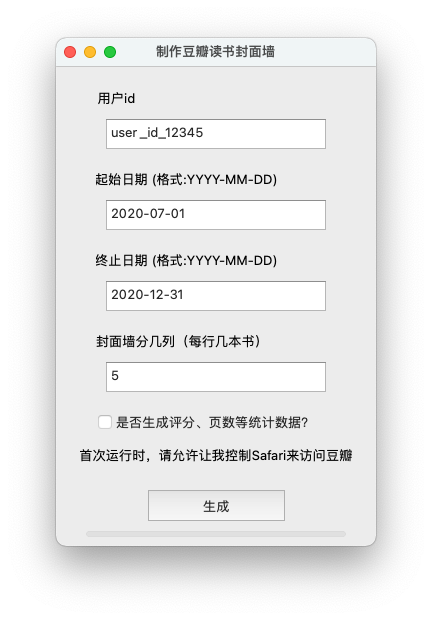
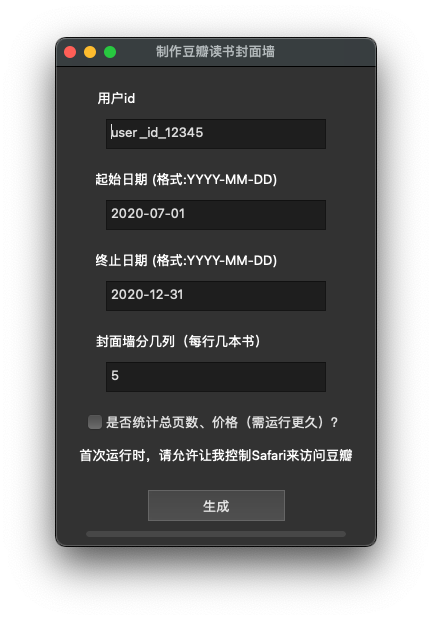
RL: now also use Safari to fecth number of pages and price info; fix a bug in doing stats

diff --git a/DoubanBookCovers.py b/DoubanBookCovers.py
@@ -1,3 +1,4 @@
+import os
 import sys
 import random
 import requests
@@ -10,6 +11,36 @@ from PyQt5 import QtCore, QtWidgets
 from PyQt5.QtCore import pyqtSlot, QEventLoop, QTimer
 from bs4 import BeautifulSoup
 from subprocess import Popen, PIPE
+
+def q_sleep(t_s):
+    loop = QEventLoop()
+    QTimer.singleShot(int(t_s * 1000), loop.quit)
+    loop.exec_()
+
+def get_from_safari(url):
+
+    scpt = '''
+            on run {input_url}
+                tell application "Safari"
+                    tell window 1
+                        set current tab to (make new tab with properties {URL:input_url})
+                        -- make sure the page is loaded
+                        repeat while current tab's source = ""
+                            delay 0.5
+                        end repeat
+                        -- wait a bit to make douban.com less suspicious
+                        set delay_4_close to (random number from 2.5 to 6.0)
+                        delay delay_4_close
+                        set pageSource to the source of the current tab
+                        close current tab
+                    end tell
+                end tell
+                return pageSource
+            end run'''
+    
+    p = Popen(['osascript', '-'] + [url], stdin=PIPE, stdout=PIPE, stderr=PIPE)
+    stdout, stderr = p.communicate(scpt.encode('utf-8'))
+    return p.returncode, stdout, stderr
 
 class BookInfo:
     
@@ -103,30 +134,53 @@ class BookInfo:
         return self.book_ID != other.book_ID
 
     def get_more_info(self):
-
+        
+        """ This method easily triggers anti-crawling policy
         headers={'User-Agent': 'Mozilla/5.0 (Macintosh; Intel Mac OS X 11_0_1) AppleWebKit/537.36 (KHTML, like Gecko) Chrome/87.0.4280.88 Safari/537.36'}
         r = requests.get(self.book_url, headers=headers)
-        soup = BeautifulSoup(r.text, "html.parser")
-        self.info_list = soup.find_all("div", id='info')[0].text
-        
-        self.info_list = [x for x in [x.lstrip().rstrip() for x in self.info_list.split('\n')] if len(x) > 0]
-        self.info_dict = {}; 
-        i = 0
-        while i < len(self.info_list):
-            if self.info_list[i][-1] == ':' and i < len(self.info_list) - 1:
-                self.info_dict[self.info_list[i][:-1].lstrip().rstrip()] = self.info_list[i+1].lstrip().rstrip()
-                j = i + 2
-                while self.info_list[j].find(':') == -1:
-                    self.info_dict[self.info_list[i][:-1].lstrip().rstrip()] += self.info_list[j].lstrip().rstrip()
-                    j += 1
-                i = j
-            elif self.info_list[i].find(':') != -1:
-                tmp_list = self.info_list[i].split(':')
-                self.info_dict[tmp_list[0].lstrip().rstrip()] = tmp_list[1].lstrip().rstrip()
-                i += 1
-            else:
-                print("Warning: there seems to be an invalid info entry: "+self.info_list[i]+" | proceed for now...")
-                i += 1
+        if r.text.find("检测到有异常请求从你的 IP 发出") != -1:
+            self.status_label.setText("豆瓣说访问太频繁，让我等60秒再试一次")
+            QtWidgets.QApplication.processEvents()
+            q_sleep(60)
+            r = requests.get(self.book_url, headers=headers)
+            if r.text.find("检测到有异常请求从你的 IP 发出") != -1:
+                return 4
+        """
+
+        returncode, stdout, stderr = get_from_safari(self.book_url)
+        if returncode != 0:
+            return 11
+        if stdout.decode('utf-8').find("检测到有异常请求从你的 IP 发出") != -1:
+            return 4
+
+        soup = BeautifulSoup(stdout, "html.parser")
+        if (len(soup.find_all("div", id='info'))) > 0:
+            self.info_list = soup.find_all("div", id='info')[0].text
+            
+            self.info_list = [x for x in [x.lstrip().rstrip() for x in self.info_list.split('\n')] if len(x) > 0]
+            self.info_dict = {}; 
+            i = 0
+            while i < len(self.info_list):
+                if self.info_list[i][-1] == ':' and i < len(self.info_list) - 1:
+                    self.info_dict[self.info_list[i][:-1].lstrip().rstrip()] = self.info_list[i+1].lstrip().rstrip()
+                    j = i + 2
+                    while self.info_list[j].find(':') == -1 and j < len(self.info_list):
+                        self.info_dict[self.info_list[i][:-1].lstrip().rstrip()] += self.info_list[j].lstrip().rstrip()
+                        j += 1
+                    i = j
+                elif self.info_list[i].find(':') != -1:
+                    tmp_list = self.info_list[i].split(':')
+                    self.info_dict[tmp_list[0].lstrip().rstrip()] = tmp_list[1].lstrip().rstrip()
+                    i += 1
+                else:
+                    print("Warning: there seems to be an invalid info entry: "+self.info_list[i]+" | proceed for now...")
+                    i += 1
+        else:
+            self.info_list = []
+            self.info_dict = {}
+        #print(self.info_list)
+        #print(self.info_dict)
+        return None
 
 class TimerMessageBox(QtWidgets.QMessageBox):
     def __init__(self, msg, timeout=3, parent=None):
@@ -150,11 +204,6 @@ class TimerMessageBox(QtWidgets.QMessageBox):
     def closeEvent(self, event):
         self.timer.stop()
         event.accept()
-
-def q_sleep(t_s):
-    loop = QEventLoop()
-    QTimer.singleShot(int(t_s * 1000), loop.quit)
-    loop.exec_()
 
 class App(QtWidgets.QMainWindow):
  
@@ -220,8 +269,8 @@ class App(QtWidgets.QMainWindow):
         self.num_cln.setObjectName("num_cln")
 
         ng += 1
-        self.stats_flag = QtWidgets.QCheckBox("是否生成评分、页数等统计数据？", self)
-        self.stats_flag.setGeometry(QtCore.QRect(label_x_pos, 20+nl*gspace+ng*hspace, 230, label_height))
+        self.stats_flag = QtWidgets.QCheckBox("是否统计总页数、价格（需运行更久）？", self)
+        self.stats_flag.setGeometry(QtCore.QRect(label_x_pos-10, 20+nl*gspace+ng*hspace, 275, label_height))
         self.stats_flag.setObjectName("stats_flag")
 
         nl += 1
@@ -263,39 +312,9 @@ class App(QtWidgets.QMainWindow):
         QtWidgets.QApplication.processEvents()
         
         res = self.get_read()
-        
         if type(res) is int:
-            self.status_label.setText("出错了。。。")
-            if res == 1:
-                QtWidgets.QMessageBox.question(self, "Warning", "日期格式有误", QtWidgets.QMessageBox.Ok, QtWidgets.QMessageBox.Ok)
-                return None
-            elif res == 10:
-                QtWidgets.QMessageBox.question(self, "Warning", "似乎无法调用Safari浏览器，可能没有相关权限？", QtWidgets.QMessageBox.Ok, QtWidgets.QMessageBox.Ok)
-                return None
-            elif res == 11:
-                QtWidgets.QMessageBox.question(self, "Warning", "似乎无法调用Safari浏览器（可是之前已经成功调用过了，但是这次失败了。。。）", QtWidgets.QMessageBox.Ok, QtWidgets.QMessageBox.Ok)
-                return None
-            elif res == 2:
-                QtWidgets.QMessageBox.question(self, "Warning", "该用户似乎不存在，无法获取数据，请检查用户id是否正确", QtWidgets.QMessageBox.Ok, QtWidgets.QMessageBox.Ok) 
-                return None
-            elif res == 21:
-                QtWidgets.QMessageBox.question(self, "Warning", "豆瓣说:“Not Found。你要的东西不在这, 到别处看看吧。” 请检查用户id是否正确", QtWidgets.QMessageBox.Ok, QtWidgets.QMessageBox.Ok) 
-                return None
-            elif res == 3:
-                QtWidgets.QMessageBox.information(self, "Info", "豆瓣说"+self.user_name+"在此期间没有阅读记录", QtWidgets.QMessageBox.Ok, QtWidgets.QMessageBox.Ok) 
-                return None
-            elif res == 31:
-                QtWidgets.QMessageBox.information(self, "Info", "豆瓣说该用户没有阅读记录。。。", QtWidgets.QMessageBox.Ok, QtWidgets.QMessageBox.Ok) 
-                return None
-            elif res == 4:
-                QtWidgets.QMessageBox.information(self, "Warning", "豆瓣说：“检测到有异常请求从你的 IP 发出，请登录使用豆瓣”。大概率是访问太频繁了，请过一段时间再试。", QtWidgets.QMessageBox.Ok, QtWidgets.QMessageBox.Ok) 
-                return None
-            elif res == 5:
-                QtWidgets.QMessageBox.question(self, "Warning", "可能获取数据失败，总之程序出错了", QtWidgets.QMessageBox.Ok, QtWidgets.QMessageBox.Ok) 
-                return None
-            else:
-                QtWidgets.QMessageBox.question(self, "Warning", "可能获取数据失败，总之程序出错了", QtWidgets.QMessageBox.Ok, QtWidgets.QMessageBox.Ok) 
-                return None
+            self.handle_error(res)
+            return None
         
         self.status_label.setText("封面墙绘制完成，请保存")
         QtWidgets.QApplication.processEvents()
@@ -309,7 +328,6 @@ class App(QtWidgets.QMainWindow):
             res.savefig(book_cover_path[0], dpi=200)
             self.status_label.setText("现在开始统计月度读书数量")
         else:
-            print("here")
             self.status_label.setText("看来您取消了保存封面墙图片")
             QtWidgets.QApplication.processEvents()
             
@@ -326,7 +344,7 @@ class App(QtWidgets.QMainWindow):
         ax.set_xticks([1,2,3,4,5,6,7,8,9,10,11,12])
         ax.set_xlabel("Month"); ax.set_ylabel("# of Books Read"); ax.set_title("Report")
         ax.grid()
-
+        
         self.progress.setValue(80)
         self.status_label.setText("月度阅读统计图绘制完成，请保存")
         QtWidgets.QApplication.processEvents()
@@ -339,6 +357,7 @@ class App(QtWidgets.QMainWindow):
             self.status_label.setText("看来您取消了保存月度阅读统计图")
             QtWidgets.QApplication.processEvents()
             q_sleep(2)
+        
         self.progress.setValue(82)
         QtWidgets.QApplication.processEvents()        
 
@@ -355,14 +374,19 @@ class App(QtWidgets.QMainWindow):
                 for i, item in enumerate(self.valid_books):
                     if item.rating is not None:
                         rating[item.rating-1] += 1
-                        
+
+                    self.progress.setValue(82+int(15 * i / self.num_books))
+                    self.status_label.setText("从豆瓣图书获取：第"+str(i+1)+'/'+str(self.num_books)+"本"+'。'*(i%3+1))
+                    QtWidgets.QApplication.processEvents() 
+                    
                     try:
                         q_sleep(0.75 + random.random()) # let's wait a bit to make douban.com less suspicious
-                        item.get_more_info()
-                        self.progress.setValue(82+int(15 * i / self.num_books))
-                        self.status_label.setText("从豆瓣图书获取数据"+str(i+1)+"次"+'。'*(i%3+1))
-                        QtWidgets.QApplication.processEvents()
-
+                        if i % 10 == 0:
+                            q_sleep(45 + 10 * random.random()) # let's wait a bit to make douban.com less suspicious
+                        res = item.get_more_info()
+                        if type(res) is int:
+                            self.handle_error(res)
+                            continue
                     except Exception as e:
                         print(e)
                         continue
@@ -372,6 +396,7 @@ class App(QtWidgets.QMainWindow):
                             total_pages += int(item.info_dict['页数'])
                         except Exception as e:
                             print(e)
+                            continue
 
                     if '定价' in item.info_dict:
                         tmp_price = item.info_dict['定价']
@@ -403,6 +428,7 @@ class App(QtWidgets.QMainWindow):
                                 total_price += tmp_price
                         except Exception as e:
                             print(e)
+                            continue
                 
                 self.status_label.setText("成功获取所需图书数据")
                 QtWidgets.QApplication.processEvents()
@@ -438,34 +464,14 @@ class App(QtWidgets.QMainWindow):
         self.progress.setValue(10)
         QtWidgets.QApplication.processEvents()
 
-        scpt = '''
-            on run {input_url}
-                tell application "Safari"
-                    tell window 1
-                        set current tab to (make new tab with properties {URL:input_url})
-                        -- make sure the page is loaded
-                        repeat while current tab's source = ""
-                            delay 0.5
-                        end repeat                        
-                        set pageSource to the source of the current tab
-                        -- wait a bit to make douban.com less suspicious
-                        delay 2.0
-                        close current tab
-                    end tell
-                end tell
-                return pageSource
-            end run'''
-
         tmp_book_start_index = 0
         self.url = "https://book.douban.com/people/"+self.uid+"/collect?start="+str(tmp_book_start_index)+"&sort=time&rating=all&filter=all&mode=grid"
-        p = Popen(['osascript', '-'] + [self.url], stdin=PIPE, stdout=PIPE, stderr=PIPE)
-        stdout, stderr = p.communicate(scpt.encode('utf-8'))
+        returncode, stdout, stderr = get_from_safari(self.url)
         self.status_label.setText("访问豆瓣读书第"+str(tmp_book_start_index+1)+"次")
         QtWidgets.QApplication.processEvents()
 
-        if p.returncode != 0:
+        if returncode != 0:
             return 10
-        
         if stdout.decode('utf-8').find("检测到有异常请求从你的 IP 发出") != -1:
             return 4
         soup = BeautifulSoup(stdout, "html.parser")
@@ -513,10 +519,12 @@ class App(QtWidgets.QMainWindow):
             self.url = "https://book.douban.com/people/"+self.uid+"/collect?start="+str(tmp_book_start_index*15)+"&sort=time&rating=all&filter=all&mode=grid"
             self.status_label.setText("访问豆瓣读书第"+str(tmp_book_start_index+1)+"次")
             QtWidgets.QApplication.processEvents()
-            p = Popen(['osascript', '-'] + [self.url], stdin=PIPE, stdout=PIPE, stderr=PIPE)
-            stdout, stderr = p.communicate(scpt.encode('utf-8'))
-            if p.returncode != 0:
+            returncode, stdout, stderr = get_from_safari(self.url)
+
+            if returncode != 0:
                 return 11
+            if stdout.decode('utf-8').find("检测到有异常请求从你的 IP 发出") != -1:
+                return 4
 
             try:
                 soup = BeautifulSoup(stdout, "html.parser")
@@ -539,9 +547,9 @@ class App(QtWidgets.QMainWindow):
         self.num_books = len(self.valid_books)
         if self.num_books == 0:
             return 3
-
+        
         # get all images for books
-        self.status_label.setText("现在按序下载封面墙的图片")
+        self.status_label.setText("现在按序获取封面墙的"+str(self.num_books)+"图书封面")
         headers={'User-Agent': 'Mozilla/5.0 (Macintosh; Intel Mac OS X 11_0_1) AppleWebKit/537.36 (KHTML, like Gecko) Chrome/87.0.4280.88 Safari/537.36'}
         self.book_covers = []
         for i, item in enumerate(self.valid_books):
@@ -551,10 +559,10 @@ class App(QtWidgets.QMainWindow):
             self.book_covers[-1].thumbnail((500, 325), Image.ANTIALIAS)
             self.progress.setValue(min(40+int(25 * i / self.num_books), 65))
             QtWidgets.QApplication.processEvents()
-            self.status_label.setText("已下载"+str(i+1)+"张图片"+'。'*(i%3+1))
+            self.status_label.setText("已获取"+str(i+1)+'/'+str(self.num_books)+"封面图片"+'。'*(i%3+1))
         
         self.progress.setValue(65)
-        self.status_label.setText("成功下载所有封面墙所需图片！开始绘制。")
+        self.status_label.setText("成功获取所有封面墙所需图片！开始绘制。")
         QtWidgets.QApplication.processEvents()
         
         # now draw the cover wall!
@@ -576,7 +584,43 @@ class App(QtWidgets.QMainWindow):
 
         fig.subplots_adjust(hspace=0, wspace=0)
         return fig
- 
+
+    def handle_error(self, error_code):
+        
+        self.status_label.setText("出错了。。。")
+        QtWidgets.QApplication.processEvents()
+        if error_code == 1:
+            QtWidgets.QMessageBox.question(self, "Warning", "日期格式有误", QtWidgets.QMessageBox.Ok, QtWidgets.QMessageBox.Ok)
+            return None
+        elif error_code == 10:
+            QtWidgets.QMessageBox.question(self, "Warning", "似乎无法调用Safari浏览器，可能没有相关权限？", QtWidgets.QMessageBox.Ok, QtWidgets.QMessageBox.Ok)
+            return None
+        elif error_code == 11:
+            QtWidgets.QMessageBox.question(self, "Warning", "似乎无法调用Safari浏览器（可是之前已经成功调用过了，但是这次失败了。。。）", QtWidgets.QMessageBox.Ok, QtWidgets.QMessageBox.Ok)
+            return None
+        elif error_code == 2:
+            QtWidgets.QMessageBox.question(self, "Warning", "该用户似乎不存在，无法获取数据，请检查用户id是否正确", QtWidgets.QMessageBox.Ok, QtWidgets.QMessageBox.Ok) 
+            return None
+        elif error_code == 21:
+            QtWidgets.QMessageBox.question(self, "Warning", "豆瓣说:“Not Found。你要的东西不在这, 到别处看看吧。” 请检查用户id是否正确", QtWidgets.QMessageBox.Ok, QtWidgets.QMessageBox.Ok) 
+            return None
+        elif error_code == 3:
+            QtWidgets.QMessageBox.information(self, "Info", "豆瓣说"+self.user_name+"在此期间没有阅读记录", QtWidgets.QMessageBox.Ok, QtWidgets.QMessageBox.Ok) 
+            return None
+        elif error_code == 31:
+            QtWidgets.QMessageBox.information(self, "Info", "豆瓣说该用户没有阅读记录。。。", QtWidgets.QMessageBox.Ok, QtWidgets.QMessageBox.Ok) 
+            return None
+        elif error_code == 4:
+            QtWidgets.QMessageBox.information(self, "Warning", "豆瓣说：“检测到有异常请求从你的 IP 发出，请登录使用豆瓣”。大概率是访问太频繁了，请过一段时间再试。", QtWidgets.QMessageBox.Ok, QtWidgets.QMessageBox.Ok) 
+            return None
+        elif error_code == 5:
+            QtWidgets.QMessageBox.question(self, "Warning", "可能获取数据失败，总之程序出错了", QtWidgets.QMessageBox.Ok, QtWidgets.QMessageBox.Ok) 
+            return None
+        else:
+            QtWidgets.QMessageBox.question(self, "Warning", "可能获取数据失败，总之程序出错了", QtWidgets.QMessageBox.Ok, QtWidgets.QMessageBox.Ok) 
+            return None
+
+
 if __name__ == '__main__':
     app = QtWidgets.QApplication(sys.argv)
     #app.setStyle("Fusion")

diff --git a/README.md b/README.md
@@ -4,8 +4,8 @@
 
 # Download
 
-下载链接：[Mac](https://github.com/astroboylrx/DoubanBookCovers/releases/download/v1.3/DoubanBookCovers-Mac.app.zip)
-~~下载链接：[Windows ](https://github.com/astroboylrx/DoubanBookCovers/releases/download/v1.3/DoubanBookCovers-Windows.zip)~~ (最新版尚未适配Windows平台)
+下载链接：[Mac](https://github.com/astroboylrx/DoubanBookCovers/releases/download/v1.4/DoubanBookCovers-Mac.app.zip)
+~~下载链接：[Windows ](https://github.com/astroboylrx/DoubanBookCovers/releases/download/v1.4/DoubanBookCovers-Windows.zip)~~ (最新版尚未适配Windows平台)
 
 
 # Usage (用法)
@@ -18,7 +18,7 @@
 * 用户id在你的豆瓣个人主页网址中，在people后面：https://www.douban.com/people/user_id_here/
 * 填写用户id，按原有格式填好日期，选择想要的封面墙列数，即可点点击“生成”按钮开始程序；勾选生成评分、页数等数据的话总体会需要更长的时间
 
-* **注意：**由于豆瓣对于API的限制，目前没有什么好的办法可以让程序直接抓取豆瓣读书的用户内容。所以新版的DoubanBookCover（目前只有Mac版）利用了`AppleScript`来控制Safari浏览器访问豆瓣读书的页面，并保存页面源码进行分析和数据收集。所以在第一次运行它时，系统会发出通知说："DoubanBookCovers.app" wants access to control "Safari.app"。届时还请允许它控制Safari，不然它没法继续运行下去。如若不小心选择了不允许，可以到System Preferences里面的Security & Privacy的Privacy这一栏中，在左侧找到Automation，在右侧找到DoubanBookCovers然后勾选Safari来赋予它权限（如下图所示）。
+* **注意：**由于豆瓣对于API的限制，目前没有什么好的办法可以让程序直接抓取豆瓣读书的用户内容。所以新版的DoubanBookCover（目前只有Mac版）利用了`AppleScript`来控制Safari浏览器访问豆瓣读书的页面，并保存页面源码进行分析和数据收集。所以在第一次运行它时，系统会发出通知说："DoubanBookCovers.app" wants access to control "Safari.app"。届时还请允许它控制Safari，不然它没法继续运行下去。如若不小心选择了不允许，可以到System Preferences里面的Security & Privacy的Privacy这一栏中，在左侧找到Automation，在右侧找到DoubanBookCovers然后勾选Safari来赋予它权限（如下图所示）。最后建议事先在Safari上登录你自己的豆瓣账户，这会有助于降低豆瓣对于频繁访问的限制。
 
     <center><img src="./pics/Security.png" width="640"></center>
 
